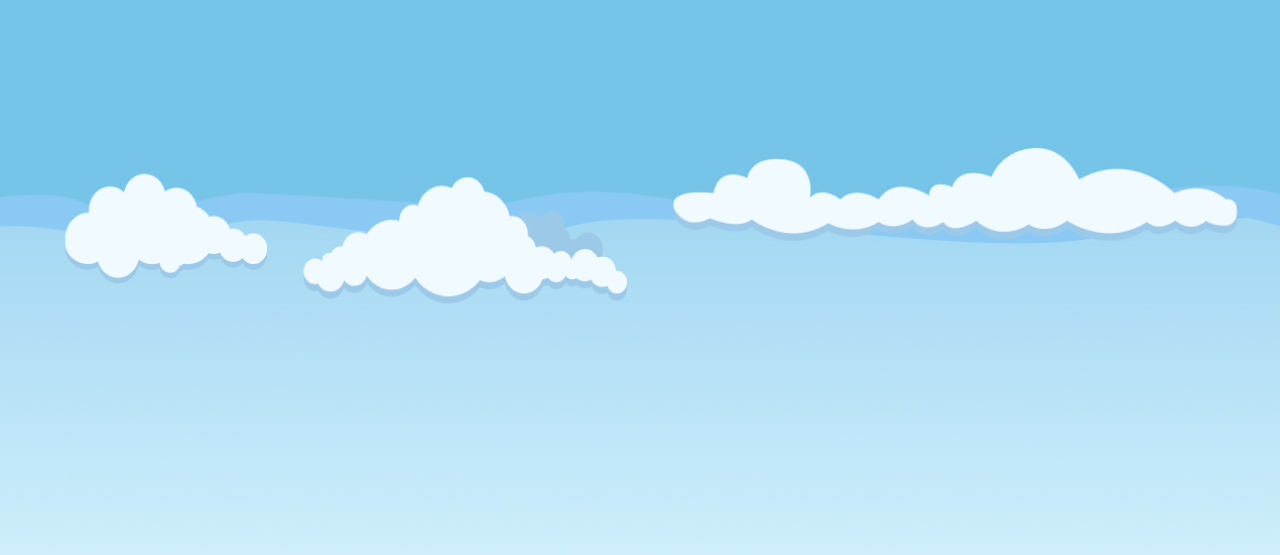
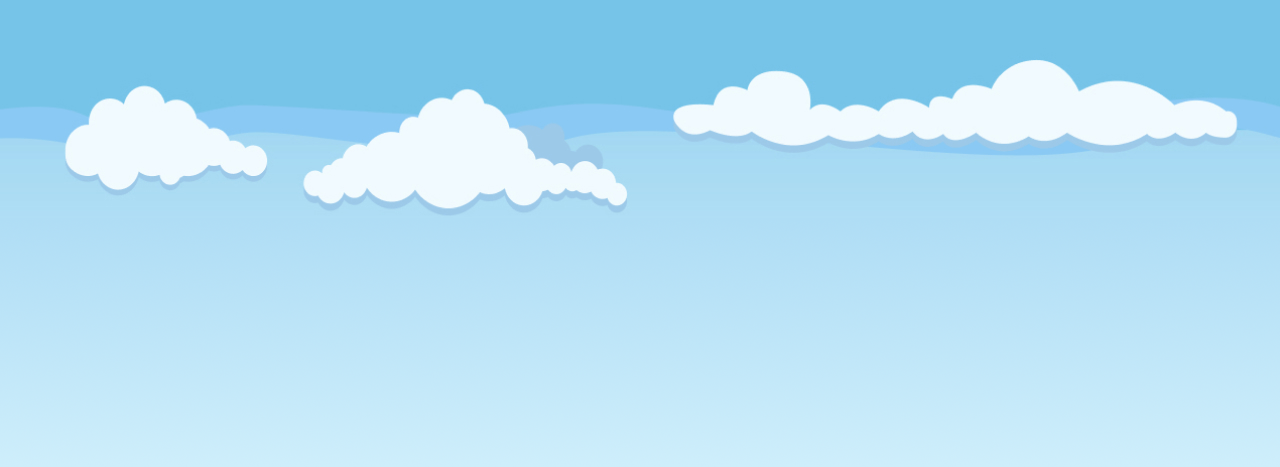
Alpha 4 Connected background motion

Changed region(s): [[0.0, 0.1199, 1.0, 0.5396]]

diff --git a/packages/client/src/engine/Engine.ts b/packages/client/src/engine/Engine.ts
@@ -9,6 +9,7 @@ import {
 } from '../constants/game'
 import Draw from './Draw'
 import Resource, { GifObject } from '../engine/ResourceLoader'
+import BgMotion from '../engine/BgMotion'
 
 type Action = 'run' | 'stay' | 'jump' | 'path' | 'scene' | 'return' | null
 type Target = {
@@ -58,11 +59,13 @@ export default class Engine {
   private fullJump = true
   private score: number
   private paused = false
+  private CatAtPosition = false
   private cat: GifObject
   private draw: Draw
+  private bgMotion: BgMotion
   private handlePause: () => void
   private handleGameOver: () => void
-  private static _instance: Engine
+  private static __instance: Engine
 
   private constructor(handlers: Record<string, () => void>) {
     this.handlePause = handlers.handlePause
@@ -71,6 +74,7 @@ export default class Engine {
     const canvas = document.getElementById('game_canvas') as HTMLCanvasElement
     this.ctx = canvas.getContext('2d')
     this.draw = new Draw(this.ctx!)
+    this.bgMotion = new BgMotion()
 
     this.cat = Resource.sprite.cat as GifObject
     this.score = GAME.initialScore // Get score from store
@@ -128,7 +132,7 @@ export default class Engine {
         this.success =
           (this.target.isBarrier && this.jumpHeight > this.successHeight) ||
           Math.abs(this.jumpHeight - this.successHeight) < 10
-        console.log('Jump height: ', this.jumpHeight, '/', this.successHeight, this.success)
+        // console.log('Jump height: ', this.jumpHeight, '/', this.successHeight, this.success)	// Do not remove!
       }
     }
     if (event.code == 'Escape') {
@@ -141,7 +145,6 @@ export default class Engine {
     if (this.jumpHeight >= GAME.jumpHeightMax) this.trajectoryDirection = -1
     if (this.jumpHeight < GAME.jumpHeightMin) {
       // Stops jump request
-      // this.trajectoryDirection = 1
       this.action = 'stay'
       this.jumpStage = -Math.PI
       requestAnimationFrame(this.update)
@@ -166,7 +169,7 @@ export default class Engine {
     } else {
       this.success ? this.commitSuccess() : this.commitFail()
     }
-    /*
+    /*	Trajectory algorithm
 			for (let i = -Math.PI; i < 0; i += step) {
 				const x = this.CatX + r + r * Math.cos(i);
 				const y = this.CatY + r * Math.sin(i);
@@ -198,13 +201,18 @@ export default class Engine {
       if (!this.target.isBarrier) {
         this.timer = window.setTimeout(this.commitFail, this.target.runAwayDelay)
       }
+      this.bgMotion.stop()
     }
 
     // Move Cat
     if (this.CatX > GAME.defaultCatX) {
-      this.CatX -= 4
-    } else if (this.target.nameLast != 'none') {
-      // this.movementSpeed = 4
+      this.CatX -= Math.floor((this.movementSpeed / 3) * 2)
+    } else {
+      if (!this.CatAtPosition) this.bgMotion.start(Math.floor((this.updateTime / 2) * 3))
+      this.CatAtPosition = true
+      if (this.target.nameLast != 'none') {
+        // this.movementSpeed = 4
+      }
     }
   }
 
@@ -320,6 +328,7 @@ export default class Engine {
       ? Math.floor(this.target.heightCurr * this.successHeightModifer)
       : (this.target.PositionX - GAME.defaultCatX) / 2
     this.fullJump = this.target.nameCurr == 'puddle' || VICTIM_LIST.includes(this.target.nameCurr)
+    this.CatAtPosition = false
     /* 
 		console.log(`Level ${level}:`, {
 			speed: this.SPEED,
@@ -327,7 +336,9 @@ export default class Engine {
 			target: this.target,
 		})
  */
+    this.bgMotion.start(this.updateTime)
     requestAnimationFrame(this.update)
+    // console.log('Game: Initialized', this.bgMotion)
   }
 
   private registerEvents = () => {
@@ -364,8 +375,8 @@ export default class Engine {
   }
 
   public static get(handlers?: Record<string, () => void>) {
-    if (Engine._instance) return Engine._instance
-    if (handlers) Engine._instance = new Engine(handlers)
-    return Engine._instance
+    if (Engine.__instance) return Engine.__instance
+    if (handlers) Engine.__instance = new Engine(handlers)
+    return Engine.__instance
   }
 }

diff --git a/packages/client/src/engine/BgMotion.ts b/packages/client/src/engine/BgMotion.ts
@@ -1,5 +1,6 @@
 import { canvas } from '../constants/game'
-import ResourceLoader from './ResourceLoader'
+import Resource from './ResourceLoader'
+import { getValue } from '../utils/data_utils'
 
 export type Layer = {
   img: HTMLImageElement | null
@@ -17,9 +18,9 @@ type LayersData = {
 }
 
 const layersData: LayersData[] = [
-  { src: 'layer1', dx: 0, isTop: true },
-  { src: 'layer2', dx: -0.2 },
-  { src: 'layer3', dx: -0.8 },
+  { src: 'MistyMountains.layer1', dx: 0, isTop: true },
+  { src: 'MistyMountains.layer2', dx: -1 },
+  { src: 'MistyMountains.layer3', dx: -4 },
 ]
 
 export default class BgMotion {
@@ -28,48 +29,54 @@ export default class BgMotion {
   private layersArr: Layer[] = []
   private clearX = canvas.width
   private clearY = canvas.height
-  private static _instance: BgMotion
+  private static __instance: BgMotion
 
-  constructor(ctx: CanvasRenderingContext2D) {
+  constructor(ctx?: CanvasRenderingContext2D) {
+    if (BgMotion.__instance) return BgMotion.__instance
     if (!ctx) return
 
-    if (BgMotion._instance) {
-      return BgMotion._instance
-    }
-
     this.ctx = ctx
-    layersData.forEach(layer => {
-      const layerObj: Layer = {
-        img: null,
-        x: 0,
-        y: 0,
-        dx: 0,
-        imgW: 0,
-        imgH: 0,
-      }
-      const img = ResourceLoader.sprite[layer.src] as HTMLImageElement
-      layerObj.img = img
-      layerObj.x = 0
-      layerObj.dx = layer.dx
-      const aspectRatio = img.height / img.width
-      layerObj.imgW = canvas.width
-      layerObj.imgH = layerObj.imgW * aspectRatio
-      layer.isTop ? (layerObj.y = 0) : (layerObj.y = canvas.height - layerObj.imgH)
-      this.layersArr.push(layerObj)
-    })
+    this.init()
 
-    BgMotion._instance = this
+    BgMotion.__instance = this
   }
 
-  public draw() {
+  private init = () => {
+    if (Resource.progress < 100) {
+      // Developement time patch
+      setTimeout(this.init, 500)
+      return
+    }
+
+    layersData.forEach(layer => {
+      const img = getValue(Resource.sprite, layer.src) as HTMLImageElement
+      const aspectRatio = img.height / img.width
+      const layerObj: Layer = {
+        img,
+        dx: layer.dx,
+        imgW: canvas.width,
+        get imgH(): number {
+          return this.imgW * aspectRatio
+        },
+        x: 0,
+        get y(): number {
+          return layer.isTop ? 0 : canvas.height - this.imgH
+        },
+      }
+      this.layersArr.push(layerObj)
+    })
+  }
+
+  private draw = () => {
     this.ctx?.clearRect(0, 0, this.clearX, this.clearY)
     this.layersArr.forEach(layer => {
       if (layer.x <= -canvas.width) {
         layer.x = 0
       }
 
-      if (layer.x > -canvas.width)
+      if (layer.x > -canvas.width) {
         this.ctx?.drawImage(layer.img as CanvasImageSource, canvas.width + layer.x, layer.y, layer.imgW, layer.imgH)
+      }
 
       this.ctx?.drawImage(layer.img as CanvasImageSource, layer.x, layer.y, layer.imgW, layer.imgH)
       layer.x += layer.dx
@@ -77,7 +84,8 @@ export default class BgMotion {
   }
 
   public start(speed = 20) {
-    if (!this.timer) this.timer = setInterval(this.draw.bind(this), speed)
+    this.stop()
+    this.timer = setInterval(this.draw, speed)
   }
 
   public stop() {

diff --git a/packages/client/src/engine/ResourceLoader.ts b/packages/client/src/engine/ResourceLoader.ts
@@ -7,12 +7,13 @@ import flowerpotUrl from '../assets/sprites/flowerpot-empty.png'
 import gnomeUrl from '../assets/sprites/garden-gnome.png'
 import grasshopperUrl from '../assets/sprites/grasshopper.gif'
 import mouseUrl from '../assets/sprites/mouse-brown.gif'
-import layer1Url from '../assets/background/MistyMountains/layer_1.png'
-import layer2Url from '../assets/background/MistyMountains/layer_2.png'
-import layer3Url from '../assets/background/MistyMountains/layer_3.png'
+import MistyMountains_layer1Url from '../assets/background/MistyMountains/layer_1.png'
+import MistyMountains_layer2Url from '../assets/background/MistyMountains/layer_2.png'
+import MistyMountains_layer3Url from '../assets/background/MistyMountains/layer_3.png'
 
 // @ts-ignore
 import GIF from '../utils/gif.js'
+import { setValue } from '../utils/data_utils'
 
 export type GifObject = {
   onerror: (e: any) => void
@@ -31,7 +32,7 @@ export type GifObject = {
 
 export class Resource {
   public progress = 0 // 0 - 100 in percents
-  private total = 9 // Resource count
+  private total = 12 // Resource count
   private current = 0
 
   protected static _instance: Resource
@@ -91,7 +92,8 @@ export class Resource {
     newImg.onerror = function (err) {
       console.log('Img loading error:', err)
     }
-    this.sprite[name] = newImg
+    setValue(this.sprite, name, newImg)
+    // this.sprite[name] = newImg
     return newImg
   }
 
@@ -109,9 +111,9 @@ export class Resource {
       this.loadImg('flowerpot', flowerpotUrl)
       this.loadImg('gnome', gnomeUrl)
 
-      this.loadImg('layer1', layer1Url)
-      this.loadImg('layer2', layer2Url)
-      this.loadImg('layer3', layer3Url)
+      this.loadImg('MistyMountains.layer1', MistyMountains_layer1Url)
+      this.loadImg('MistyMountains.layer2', MistyMountains_layer2Url)
+      this.loadImg('MistyMountains.layer3', MistyMountains_layer3Url)
     }
   }
 }

diff --git a/packages/client/src/utils/data_utils.ts b/packages/client/src/utils/data_utils.ts
@@ -1,0 +1,33 @@
+const isPrimitive = (val: any): boolean => val !== Object(val)
+
+const isObject = (obj: any): boolean => obj != null && typeof obj === 'object'
+
+type Indexed<T = any> = { [k in string | symbol]: T }
+
+// setValue({ foo: 5 }, 'bar.baz', 10), // { foo: 5, bar: { baz: 10 } }
+export function setValue(object: Indexed | unknown, path: string, value: unknown): Indexed | unknown {
+  if (isPrimitive(object)) return object
+  if (typeof path != 'string' || path == '') throw new Error('Path must be string')
+  let obj = object as Indexed
+  const arr = path.split('.')
+  const last = arr.pop()
+  arr.forEach(key => {
+    if (!obj[key]) obj[key] = {}
+    obj = obj[key] as Indexed
+  })
+  obj[last!] = value
+  return object
+}
+
+export function getValue(object: Indexed | unknown, path: string): Indexed | unknown {
+  if (isPrimitive(object)) return object
+  if (typeof path != 'string' || path == '') throw new Error('Path must be string')
+  let obj = object as Indexed
+  const arr = path.split('.')
+  const last = arr.pop()
+  arr.forEach(key => {
+    if (!obj[key]) obj[key] = {}
+    obj = obj[key] as Indexed
+  })
+  return obj[last!]
+}

diff --git a/packages/client/src/pages/GamePage.tsx b/packages/client/src/pages/GamePage.tsx
@@ -1,7 +1,8 @@
 import { useState, createContext } from 'react'
 import GameLayout from '../layouts/GameLayout'
 import ActionLayer from '../layers/ActionLayer'
-import LandscapeLayer from '../layers/LandscapeLayer'
+// import LandscapeLayer from '../layers/LandscapeLayer'
+import BackgroundLayer from '../layers/BackgroundLayer'
 import GamePause from '../components/gamePause'
 import GameOver from '../components/GameOver'
 import Engine from '../engine/Engine'
@@ -38,12 +39,10 @@ const GamePage = () => {
     <GameLayout>
       <GamePause visible={pauseVisible} handleClose={handleContinue} outSideClickEnable />
       <GameOver visible={gameOverVisible} handleClose={handleNewGame} />
-      <LandscapeLayer />
+      <BackgroundLayer />
       <ActionLayer {...{ handlePause, handleGameOver }} />
     </GameLayout>
   )
 }
-
-// handleContinue={handleContinue}
 
 export default GamePage

diff --git a/packages/client/src/constants/game.ts b/packages/client/src/constants/game.ts
@@ -15,7 +15,7 @@ export const SpriteSize = {
 export const GAME = {
   scorePerLevel: 100,
   initialScore: 20, // Need to prevent 'Game over' after the first fail
-  actionPositionVertical: Math.floor(canvas.height * 0.93),
+  actionPositionVertical: Math.floor(canvas.height * 0.88),
   shadowsEnable: false,
   trajectoryStep: 2,
   jumpHeightMin: Math.floor(SpriteSize.cat.height / 1.5),

diff --git a/packages/client/src/layers/BackgroundLayer.tsx b/packages/client/src/layers/BackgroundLayer.tsx
@@ -16,7 +16,6 @@ export default class BackgroundLayer extends Component {
     const ctx = this.canvas!.current!.getContext('2d')
     if (ctx) {
       this.motion = new BgMotion(ctx)
-      this.motion.start(10)
     }
   }
 
